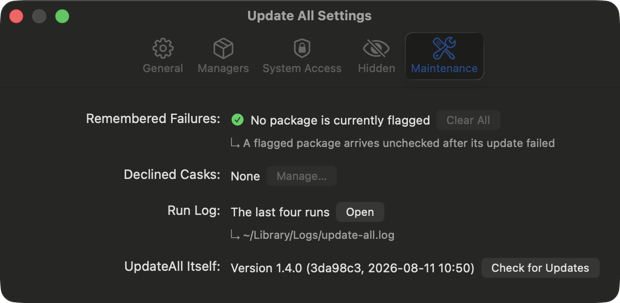
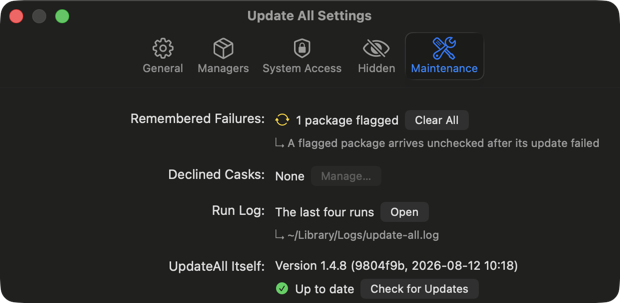
README: refresh screenshots against 1.4.8
Retaken at true 1:1 from a real scan — fifteen pending updates across Homebrew
formulae, casks, the Mac App Store and Claude Code, including a flagged row.
The window shot also shows the widened Version column doing its job: Chrome's
"151.0.7922.109 → 151.0.7922.138" now fits instead of losing the target version
to truncation.

Adds the General pane so the preferences window's shape is visible, and drops
the mid-scan shot, which said less than the others.

diff --git a/README.md b/README.md
@@ -39,6 +39,11 @@ reflects everything the app knows how to update:
 
 ![Settings — Managers](docs/screenshot-settings-managers.png)
 
+Settings itself is a standard preferences window — icon toolbar, one
+pane per section, sized to whichever pane is showing:
+
+![Settings — General](docs/screenshot-settings-general.png)
+
 macOS gates the two things a system updater has to do — writing to
 `/Applications`, and running the installer as root — so both have a row here
 with their current state:
